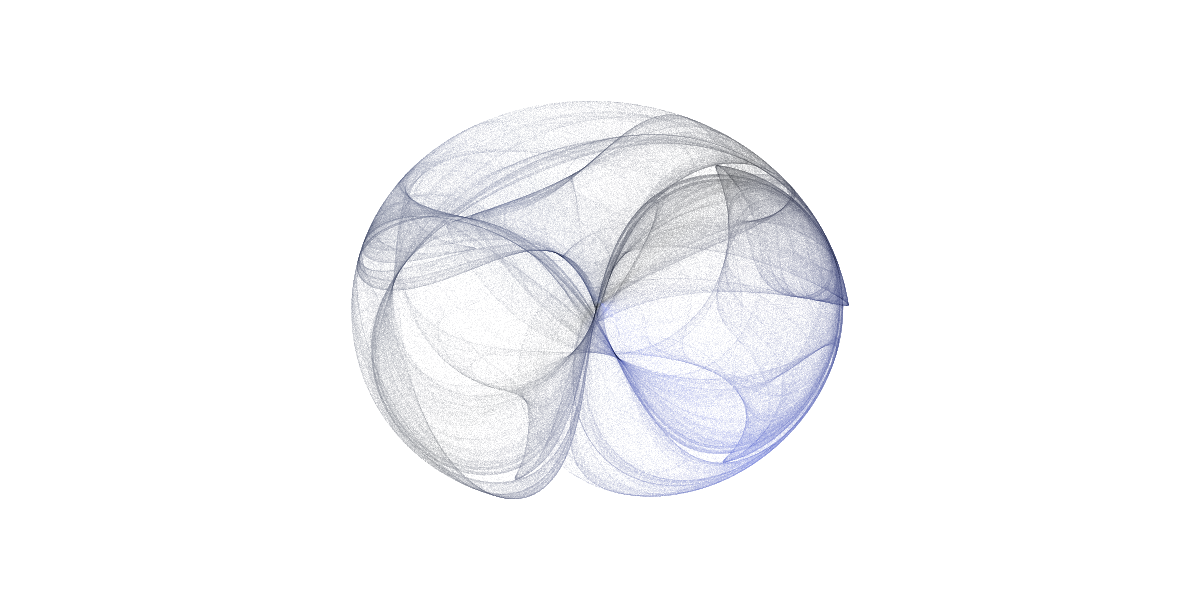
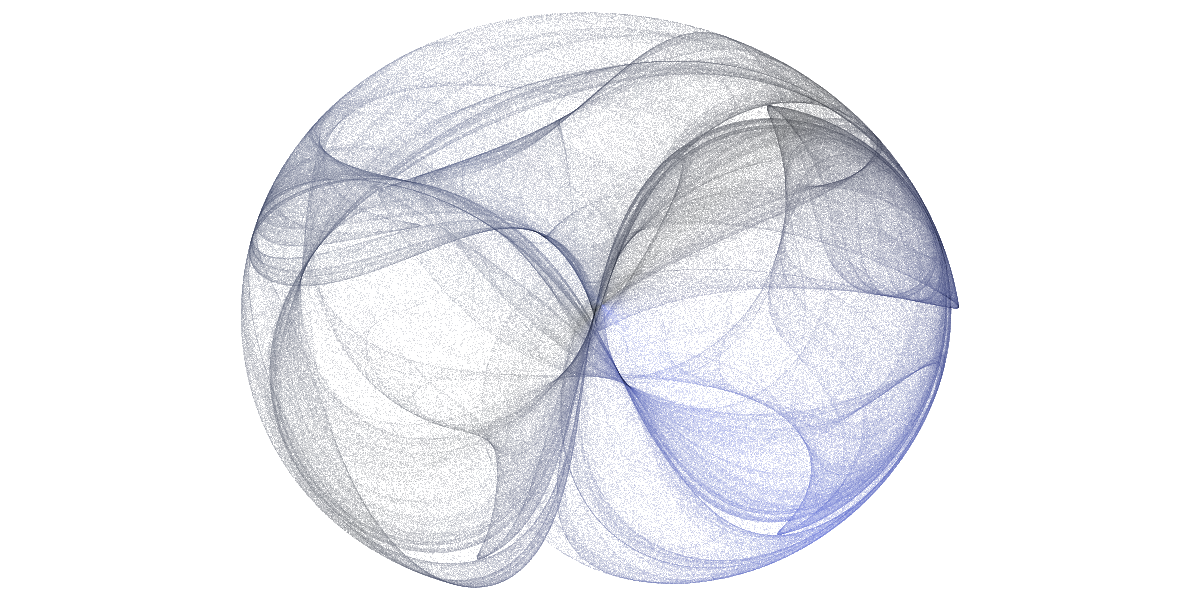
feat: let the mark read — normalized log density, far-field zoom 1.3
Seven commits of provenance work had produced no visible change, and the owner
said so. The cause was not chroma — docs/audit/06 already falsified that — but
two constants that decide whether the mark can be seen at all.

The tone map applied gamma 1.5 to log density, which put a typical filament at
16% alpha: the density field was computed and then discarded at the last step.
Gamma 1.0 is the identity, so the curve is removed rather than reparameterised;
the same filament now reads at 29% and cores are still earned at the 0.68 onset.
fieldEnergy, which conditions the legibility envelope, carried the same gamma and
now reads the tone the plate actually deposits.

The far-field zoom framed the whole orbit as one soft ball, so the filament
structure existed and was never legible. The ladder is scaled whole to
[1.3, 2.75, 5.2, 9.8], keeping its log-spaced ratios (2.11, 1.89, 1.89) exactly,
so the descent is unchanged in shape and only starts closer.

Zoom 1.8 was rejected on doctrine: the hero states the mark is "observed from far
— its own sparse periphery, not decoration", and at 1.8 the frame is filled with
the dense interior and the descent has nowhere to go.

Measured (docs/audit/07): 12 variants, hero and floor. B1 monotonic darkening and
B2 no-emission pass at every gamma tested; claims held 10/10 in all twelve; the
cost at glyph pixels is about 2% of rendered text contrast. B1b pins the source
against the Python mirror of the law.
[…]

Changed region(s): [[0.185, 0.0, 0.8017, 0.99]]

diff --git a/index.html b/index.html
@@ -20,7 +20,7 @@
 <meta property="og:image:type" content="image/png">
 <meta property="og:image:alt" content="Density plate of the canonical CytherAI mark: a filament orbit accumulated in dark ink on cold paper, one lobe tinted cobalt, beside a quiet paper lane.">
 <meta name="theme-color" content="#101620">
-<meta name="build-hash" content="B2F25BCB98E56EDC">
+<meta name="build-hash" content="1B341618A95834D0">
 <link rel="manifest" href="manifest.webmanifest">
 <link rel="icon" href="icon.svg" type="image/svg+xml">
 <link rel="apple-touch-icon" href="assets/icons/icon-180.png">
@@ -522,7 +522,7 @@ body.at-rest .law{font-weight:350}   /* the law settles as the reader arrives */
 
 <header class="chrome">
   <span class="wordmark">CYTHERAI</span>
-  <span class="gauge" id="gauge">OBS <b>FAR-FIELD</b> · ×0.90<br>DEPTH 00% · CLAIM · PUBLIC SURFACE</span>
+  <span class="gauge" id="gauge">OBS <b>FAR-FIELD</b> · ×1.30<br>DEPTH 00% · CLAIM · PUBLIC SURFACE</span>
 </header>
 
 <div class="core" aria-hidden="true">
@@ -776,7 +776,7 @@ body.at-rest .law{font-weight:350}   /* the law settles as the reader arrives */
 
 <div class="strip">
   <span>MARK <b id="markSerial">…</b></span>
-  <span class="st" id="obsZoom">×0.90</span>
+  <span class="st" id="obsZoom">×1.30</span>
   <button id="forkBtn" aria-keyshortcuts="ArrowUp ArrowDown ArrowLeft ArrowRight Escape">FORK</button>
   <button id="redevelopBtn">REDEVELOP</button>
   <span class="st" id="forkStatus">CANONICAL STATE</span>
@@ -792,7 +792,7 @@ body.at-rest .law{font-weight:350}   /* the law settles as the reader arrives */
 </footer>
 
 <script src="js/manifest.js" defer integrity="sha384-6evoQ4Qm1ahfUr4ql1gfXyTxakzaNstVRMVPvKR1GBgC3nLqr+y/V8m7KKClqNFp" crossorigin="anonymous"></script>
-<script src="js/substrate.js" defer integrity="sha384-qIrOll2kSZQtzuImi5SusstrhKs4Xj8JCHTVVd7ITQlN9na1O7i4JrsnFc9H3nmP" crossorigin="anonymous"></script>
+<script src="js/substrate.js" defer integrity="sha384-lDcpV5wXzxuArKwv9/FPonP8xcW8E5zyX4iM3bAHSqxEHiDQyotuFoojVzYru7/a" crossorigin="anonymous"></script>
 <script src="js/claims.js" defer integrity="sha384-hI33HZ8ncBBJFT2tAfNZuumYekKEaa/Vy62l3moofsYPI4G42uN5230K2GtMmvlZ" crossorigin="anonymous"></script>
 <script src="js/ledger.js" defer integrity="sha384-+YPD2oF8hVho8DCT9ck5rkyeQcIGDPKRN4iGqU0WpQ7eHIy8s3eZers0nDUdXuoz" crossorigin="anonymous"></script>
 <script src="js/instrument.js" defer integrity="sha384-LTglMig1KdJf03unQEV0IrgqTubaW32hx8EawMe4Gggh+5pEISPBZSgYYq7/bUus" crossorigin="anonymous"></script>

diff --git a/js/substrate.js b/js/substrate.js
@@ -23,7 +23,13 @@
 const CM = root.CytherManifest;
 
 /* ================= locked constants (§4.1) ================= */
-const ZOOMS   = [0.9, 1.9, 3.6, 6.8];
+/* The zoom ladder. Far-field was 0.9, which framed the whole orbit as one soft ball:
+   the mark had structure the reader could not see. 1.3 shows the filament arcs and
+   caustics while the object still reads as a periphery observed from far, with paper
+   around it — 1.8 fills the frame with the dense interior and stops being a periphery
+   at all. The ladder is scaled whole, so the descent keeps its log-spaced ratios
+   (2.11, 1.89, 1.89) exactly. Measured sweep: docs/audit/07. */
+const ZOOMS   = [1.3, 2.75, 5.2, 9.8];
 const BGS     = [["#ECF0F4","#101620"],["#B9C3D2","#131A26"],["#3A4658","#DDE6F2"],["#070A10","#C7D2E4"]];
 const PANELS  = [[255,255,255,.60],[240,245,251,.55],[14,20,29,.50],[10,15,23,.55]];
 const ACCENTS = ["#2036C7","#2A48D6","#5F7BFF","#7FA0FF"];
@@ -274,8 +280,11 @@ function tonemapInto(st, data) {
   for (let i = 0, j = 0; i < total.length; i++, j += 4) {
     const t = total[i];
     if (t < 0.5) { d[j+3] = 0; continue; }
-    let L = Math.log1p(t) * invLog;
-    L = Math.sqrt(L) * L;                       /* ≈ gamma 1.5 on log density */
+    /* normalized log density, no gamma. The 1.5 curve here spent the mark's presence
+       for nothing: it put a typical filament at 16% alpha, so the density field was
+       computed and then thrown away at the last step. At 1.0 the same filament reads
+       at 29% and the cores are earned at the same 0.68 onset. */
+    const L = Math.log1p(t) * invLog;
     const inv = 1 / t;
     let r = (c0[i]*a0r + c1[i]*a1r + c2[i]*a2r + c3[i]*a3r) * inv;
     let g = (c0[i]*a0g + c1[i]*a1g + c2[i]*a2g + c3[i]*a3g) * inv;
@@ -509,7 +518,7 @@ if (typeof document !== "undefined") {
       const bx = ((vx - t.tx) / t.A * f.scx) | 0, by = ((vy - t.ty) / t.A * f.scy) | 0;
       if (bx < 0 || by < 0 || bx >= f.bw || by >= f.bh) continue;
       const dep = f.total[by * f.bw + bx];
-      if (dep > 0) { let L = Math.log1p(dep) * invLog; sum += Math.sqrt(L) * L; }
+      if (dep > 0) sum += Math.log1p(dep) * invLog;   /* the envelope reads the same tone the plate deposits */
       n++;
     }
     return n ? sum / n : null;

diff --git a/pages/brief.html b/pages/brief.html
@@ -15,7 +15,7 @@
     <meta property="og:image:type" content="image/png">
     <meta property="og:image:alt" content="Density plate of the canonical CytherAI mark: a filament orbit accumulated in dark ink on cold paper, one lobe tinted cobalt, beside a quiet paper lane.">
     <meta name="theme-color" content="#ECF0F4">
-    <meta name="build-hash" content="B2F25BCB98E56EDC">
+    <meta name="build-hash" content="1B341618A95834D0">
     <link rel="manifest" href="../manifest.webmanifest">
     <link rel="icon" href="../icon.svg" type="image/svg+xml">
     <link rel="apple-touch-icon" href="../assets/icons/icon-180.png">

diff --git a/pages/privacy.html b/pages/privacy.html
@@ -15,7 +15,7 @@
     <meta property="og:image:type" content="image/png">
     <meta property="og:image:alt" content="Density plate of the canonical CytherAI mark: a filament orbit accumulated in dark ink on cold paper, one lobe tinted cobalt, beside a quiet paper lane.">
     <meta name="theme-color" content="#ECF0F4">
-    <meta name="build-hash" content="B2F25BCB98E56EDC">
+    <meta name="build-hash" content="1B341618A95834D0">
     <link rel="manifest" href="../manifest.webmanifest">
     <link rel="icon" href="../icon.svg" type="image/svg+xml">
     <link rel="apple-touch-icon" href="../assets/icons/icon-180.png">

diff --git a/pages/security.html b/pages/security.html
@@ -15,7 +15,7 @@
     <meta property="og:image:type" content="image/png">
     <meta property="og:image:alt" content="Density plate of the canonical CytherAI mark: a filament orbit accumulated in dark ink on cold paper, one lobe tinted cobalt, beside a quiet paper lane.">
     <meta name="theme-color" content="#ECF0F4">
-    <meta name="build-hash" content="B2F25BCB98E56EDC">
+    <meta name="build-hash" content="1B341618A95834D0">
     <link rel="manifest" href="../manifest.webmanifest">
     <link rel="icon" href="../icon.svg" type="image/svg+xml">
     <link rel="apple-touch-icon" href="../assets/icons/icon-180.png">

diff --git a/pages/terms.html b/pages/terms.html
@@ -15,7 +15,7 @@
     <meta property="og:image:type" content="image/png">
     <meta property="og:image:alt" content="Density plate of the canonical CytherAI mark: a filament orbit accumulated in dark ink on cold paper, one lobe tinted cobalt, beside a quiet paper lane.">
     <meta name="theme-color" content="#ECF0F4">
-    <meta name="build-hash" content="B2F25BCB98E56EDC">
+    <meta name="build-hash" content="1B341618A95834D0">
     <link rel="manifest" href="../manifest.webmanifest">
     <link rel="icon" href="../icon.svg" type="image/svg+xml">
     <link rel="apple-touch-icon" href="../assets/icons/icon-180.png">

diff --git a/contact.html b/contact.html
@@ -15,7 +15,7 @@
     <meta property="og:image:type" content="image/png">
     <meta property="og:image:alt" content="Density plate of the canonical CytherAI mark: a filament orbit accumulated in dark ink on cold paper, one lobe tinted cobalt, beside a quiet paper lane.">
     <meta name="theme-color" content="#ECF0F4">
-    <meta name="build-hash" content="B2F25BCB98E56EDC">
+    <meta name="build-hash" content="1B341618A95834D0">
     <link rel="manifest" href="manifest.webmanifest">
     <link rel="icon" href="icon.svg" type="image/svg+xml">
     <link rel="apple-touch-icon" href="assets/icons/icon-180.png">

diff --git a/sw.js b/sw.js
@@ -3,7 +3,7 @@
  * No install prompts. No app-store energy. Just offline capability.
  */
 
-var CACHE = 'cytherai-substrate-B2F25BCB98E56EDC';   /* hash stamped by generate-integrity.sh; -rN = worker-logic revision at an unchanged build */
+var CACHE = 'cytherai-substrate-1B341618A95834D0';   /* hash stamped by generate-integrity.sh; -rN = worker-logic revision at an unchanged build */
 
 /* "/" when the worker is served from the origin root, as docs/deploy.md requires. */
 var SCOPE = new URL('./', self.location).pathname;

diff --git a/404.html b/404.html
@@ -6,7 +6,7 @@
     <title>404 &middot; No Record | CytherAI</title>
     <meta name="description" content="No record exists at this path.">
     <meta name="theme-color" content="#ECF0F4">
-    <meta name="build-hash" content="B2F25BCB98E56EDC">
+    <meta name="build-hash" content="1B341618A95834D0">
     <!-- Served for path misses, so every URL here is absolute: this page can
          render at any depth. The emblem is decorative (alt=""); the record of
          what happened is this text. -->

diff --git a/pages/runner.html b/pages/runner.html
@@ -3,7 +3,7 @@
 <head>
 <meta charset="utf-8">
 <meta name="viewport" content="width=device-width, initial-scale=1">
-<meta name="build-hash" content="B2F25BCB98E56EDC">
+<meta name="build-hash" content="1B341618A95834D0">
 <!-- without this the browser requests /favicon.ico and logs a 404 — a console
      error on the one page whose purpose is to show a clean verification result -->
 <link rel="icon" href="../icon.svg" type="image/svg+xml">

diff --git a/tools/test-motion.py b/tools/test-motion.py
@@ -84,7 +84,6 @@ PLATES = {  # js/substrate.js PLATE[0..1] — the light plates
 import math
 def composited(anchor, core, amax, t, maxT):
     L = math.log1p(t) / math.log1p(maxT)
-    L = math.sqrt(L) * L
     cw = (L - 0.68) / 0.32 if L > 0.68 else 0.0
     cw = cw * cw * 0.9
     px = [a + (c - a) * cw for a, c in zip(anchor, core)]
@@ -152,6 +151,8 @@ check(all(bands[i] < bands[i+1] + 1e-9 for i in range(len(bands)-1)),
       % " -> ".join("%.0f" % b for b in bands))
 
 sub = open(os.path.join(ROOT, "js/substrate.js")).read()
+check("Math.sqrt(L)" not in sub and "Math.pow(L" not in sub,
+      "B1b the tone map applies no gamma beyond the log — the mirror above matches the source")
 check("reduced ? Infinity" in sub
       and "const toneNow = done || (streaming && !reduced" in sub
       and "if (toneNow)" in sub,

diff --git a/docs/asset-promotion-log.md b/docs/asset-promotion-log.md
@@ -117,20 +117,20 @@ command and the output digest; a promoted asset with no receipt is a defect.
 | Source study | None. The image is not composed; it is the plate the page's own kernel develops. |
 | Classification | **DERIVED** |
 | Command | `python3 tools/promote-poster.py` — which runs `jsc js/manifest.js js/substrate.js tools/promote-poster.js` and encodes what comes back |
[2 lines of base64/hex data omitted]
 | Provenance chain | manifest → kernel → terminal development state D_N → terminal raster R_N → encoded poster P. Recorded below at every edge. |
 | Canonical inputs | `CytherManifest.CANON = [-1.7515999999999998, 1.85944, -0.98268, -0.6072]`, admission nonce 0, state checksum `75D1:89D1`, epoch 3 — read by executing `js/manifest.js` under jsc, never hand-copied. |
-| Method | Plate 0 (`ZOOMS[0]` 0.9, `PLATE[0]` anchor inks, rot 0.12) developed by `developStep` at the fixed `DEV_BATCH` of 60,000 iterations to its terminal state, then `tonemapInto` — the same function the page calls — into a `Uint8ClampedArray`, whose round-half-even clamping is part of the exposure law. Every recurrence is `dsin`/`dcos`/`datan2` (§8.1), so D_N and R_N are engine-invariant: jsc and Chrome produce the identical raster (measured 2026-09-08, rgba FNV `4ca8930f` at a 800×343 probe frame). |
+| Method | Plate 0 (`ZOOMS[0]` 1.3, `PLATE[0]` anchor inks, rot 0.12) developed by `developStep` at the fixed `DEV_BATCH` of 60,000 iterations to its terminal state, then `tonemapInto` — the same function the page calls, normalized log density with no gamma since `docs/audit/07` — into a `Uint8ClampedArray`, whose round-half-even clamping is part of the exposure law. Every recurrence is `dsin`/`dcos`/`datan2` (§8.1), so D_N and R_N are engine-invariant: jsc and Chrome produce the identical raster (measured 2026-09-09, rgba FNV `5f13f462` at a 800×343 probe frame). |
 | Reference frame | 1200×600. A real viewport frame whose bin raster is exactly `BIN_TGT` (720,000 cells) — the most the runtime ever develops — at the widest aspect the page presents it. |
-| Terminal state | step 15 · 900,000 deposits · 900,000 iterations · max density 201 · density hash (FNV-1a over the field and counters) `c19e9e9b` |
[1 lines of base64/hex data omitted]
+| Terminal state | step 15 · 900,000 deposits · 900,000 iterations · max density 128 · density hash (FNV-1a over the field and counters) `ef4bf18f` |
[1 lines of base64/hex data omitted]
 | Encoder | `tools/pngout.py write_png(alpha=True)` — PNG colour type 6, 8-bit, filter 0 on every row, zlib level 9, no ancillary chunks. Lossless by construction: the poster is the canonical representation of a generated plate, not a bandwidth optimisation, so there is no gap between "the plate" and "an approximation shown until the real one arrives". |
-| Output | `assets/plate/surface-terminal.png` · 1200×600 · 251,884 bytes |
[1 lines of base64/hex data omitted]
+| Output | `assets/plate/surface-terminal.png` · 1200×600 · 393,585 bytes |
[1 lines of base64/hex data omitted]
 | Determinism | Run twice; byte-identical output both runs (`tools/test-poster.py`). |
 | Acceptance checks | `python3 tools/test-poster.py`, five gates: producer determinism; **decode(P) == R_N pixel for pixel** (the load-bearing proof — not an equality between the PNG digest and the kernel's FNV checkpoint, which identify different objects); a change to any declared derivation input (`normalizeManifest`: epoch, derived, revision, disclosed, indexed, controlled, validation, not_claimed) moves the raster and makes these bytes stale, while a presentation-only manifest field does not; a one-bit pixel edit, a corrupted file, and a substituted valid image (`og-card.png`) each fail verification; the promotion log and deployment contract record this artifact. |
 | Presentation | A CSS `background-image` on `#poster` inside `#world`, under the tiles, shown only for viewport aspects in [1, 2] — the window where a `cover` fit **is** the exact crop the developed plate would show, because vertical world extent is constant across landscape frames and horizontal extent scales with aspect. Outside that window it is not shown at all, and because a `display:none` element's background is never fetched, the aspect window is also the download rule. `js/substrate.js` removes it the moment plate 0 reaches D_N and never restores it: a fork or a redevelopment is a different world and the poster cannot speak for it. |
-| Deployment | `deploy.sh` allowlist (28 files). **Not** in `sw.js` ASSETS: 246 KB at install time to save a few hundred milliseconds on a warm cache is a bad trade, and its absence degrades exactly to the previous behaviour — the reader's own plate develops. On a cold or slow connection the poster loses the race and is removed before it paints, which is the intended failure mode. Not in the SRI fingerprint (images cannot carry SRI); it does move the build identity, which since 2026-09-08 is a projection of every served byte. |
+| Deployment | `deploy.sh` allowlist (28 files). **Not** in `sw.js` ASSETS: 394 KB at install time to save a few hundred milliseconds on a warm cache is a bad trade (the file grew with the denser plate of `docs/audit/07` — a bigger poster simply wins the race less often, which is the intended failure mode), and its absence degrades exactly to the previous behaviour — the reader's own plate develops. On a cold or slow connection the poster loses the race and is removed before it paints, which is the intended failure mode. Not in the SRI fingerprint (images cannot carry SRI); it does move the build identity, which since 2026-09-08 is a projection of every served byte. |
 | Commit | promoted on branch `visual-pass`; `git log --follow -- assets/plate/surface-terminal.png` names the commit |
 | Owner sign-off | PENDING |
 
